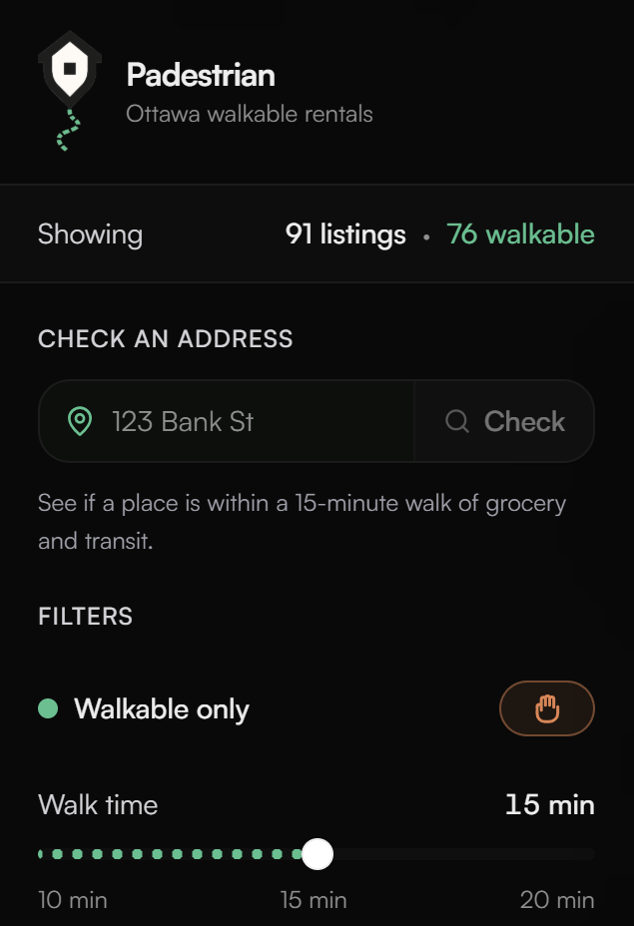
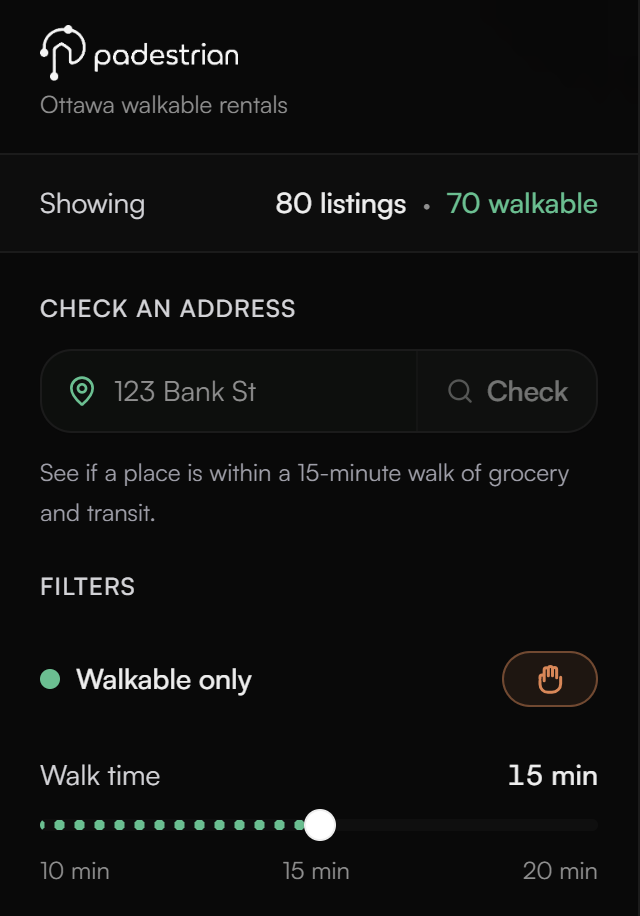
changes

diff --git a/components/map/filter-panel.tsx b/components/map/filter-panel.tsx
@@ -363,7 +363,7 @@ export function FilterPanel({
         {/* eslint-disable-next-line @next/next/no-img-element */}
         <img
           src={logoIcon}
-          alt="Padestrian"
+          alt="padestrian"
           width={28}
           height={28}
           className="shrink-0"
@@ -405,7 +405,7 @@ export function FilterPanel({
             {/* eslint-disable-next-line @next/next/no-img-element */}
             <img
               src={logoLockup}
-              alt="Padestrian"
+              alt="padestrian"
               height={28}
               className="h-7 w-auto max-w-[200px] object-contain object-left"
             />

diff --git a/app/layout.tsx b/app/layout.tsx
@@ -5,7 +5,7 @@ import './globals.css'
 const geist = Geist({ subsets: ["latin"], variable: "--font-geist" });
 
 export const metadata: Metadata = {
-  title: 'Padestrian — Walkable Rentals',
+  title: 'padestrian — walkable rentals',
   description: 'Find car-free apartments near transit and groceries in Ottawa',
   icons: {
     icon: [

diff --git a/README.md b/README.md
@@ -1,7 +1,7 @@
-# Padestrian
+# padestrian
 
 <p align="center">
-  <img src="public/images/logo-lockup-green-banner.png" alt="Padestrian — Ottawa walkable rentals" width="520" />
+  <img src="public/images/logo-lockup-green-banner.png" alt="padestrian — ottawa walkable rentals" width="520" />
 </p>
 
 > **Live app:** [padestrian.vercel.app](https://padestrian.vercel.app)  
@@ -15,26 +15,26 @@
 ![Python](https://img.shields.io/badge/Python-3776AB?style=flat-square&logo=python&logoColor=white)
 ![Mapbox](https://img.shields.io/badge/Mapbox-4264FB?style=flat-square&logo=mapbox&logoColor=white)
 
-**Where can I rent and still walk to the bus and the store?** Padestrian is a full-stack Ottawa rental explorer built around that question — and a simple idea: **walkability should mean a real walk**, not a straight line on a map. Most listing sites hand you a generic score that ignores highways, missing sidewalks, and how long winter walks actually feel. This project scores each apartment using **pedestrian routing**, official **transit stop data**, and real **grocery locations**, then shows you the results instantly.
+**Where can I rent and still walk to the bus and the store?** padestrian is a full-stack Ottawa rental explorer built around that question — and a simple idea: **walkability should mean a real walk**, not a straight line on a map. Most listing sites hand you a generic score that ignores highways, missing sidewalks, and how long winter walks actually feel. This project scores each apartment using **pedestrian routing**, official **transit stop data**, and real **grocery locations**, then shows you the results instantly.
 
 ## Screenshots
 
 **Map** — color-coded rentals, groceries, transit stops, and listing cards with walkability badges.
 
-<img src="public/images/screenshot-map.png" alt="Padestrian map with walkable listing popup" width="100%" />
+<img src="public/images/screenshot-map.png" alt="padestrian map with walkable listing popup" width="100%" />
 
-**Sidebar** — address check, walk-time slider, rent histogram, layers, and Kijiji sources.
+**Sidebar** — logo, address check, walk-time slider, rent/bedroom filters, map layers, and Kijiji import.
 
 <table>
   <tr>
     <td width="33%" align="center" valign="top">
-      <img src="public/images/screenshot-sidebar-walktime.png" alt="Walk time slider and address check" width="100%" />
+      <img src="public/images/screenshot-sidebar-walktime.png" alt="padestrian header, address check, and walk-time slider" width="100%" />
     </td>
     <td width="33%" align="center" valign="top">
-      <img src="public/images/screenshot-sidebar-rent.png" alt="Max rent histogram and bedroom filters" width="100%" />
+      <img src="public/images/screenshot-sidebar-filters.png" alt="Max rent, bedrooms, legend, layers, and listing sources" width="100%" />
     </td>
     <td width="34%" align="center" valign="top">
-      <img src="public/images/screenshot-sidebar-layers.png" alt="Legend, map layers, and listing sources" width="100%" />
+      <img src="public/images/screenshot-sidebar-kijiji.png" alt="Kijiji live listings and personal URL import" width="100%" />
     </td>
   </tr>
 </table>
@@ -49,7 +49,7 @@ Apartment hunting without a car usually means:
 - Guessing whether “15 minutes to transit” includes a fence, a parking lot, or a road with no sidewalk  
 - No single view of **price + location + grocery + bus** at once  
 
-Padestrian puts that in one place: hover a pin, see rent and address, know at a glance if the listing is walkable to **both** transit and a full grocery store.
+padestrian puts that in one place: hover a pin, see rent and address, know at a glance if the listing is walkable to **both** transit and a full grocery store.
 
 ---
 